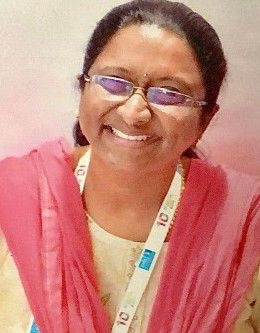
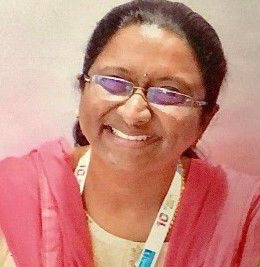
Fix images.

diff --git a/index.html b/index.html
@@ -623,7 +623,7 @@
             <div class="inner">
               <div class="thumbnail">
                 <a href="https://www.amrita.edu/faculty/bindu-k-r/">
-                  <img src="assets/images/members/2024-25/bindu_k_r.png" alt="Personal Portfolio Images" style="width: 100%; height: 256px; object-fit: cover;">
+                  <img src="assets/images/members/2024-25/bindu_k_r.png" alt="Personal Portfolio Images">
                 </a>
               </div>
               <div class="content">
@@ -678,7 +678,7 @@
             <div class="inner">
               <div class="thumbnail">
                 <a href="https://www.amrita.edu/faculty/anuragi-arti-narayandas/">
-                  <img src="assets/images/arti2.jpg" alt="Personal Portfolio Images">
+                  <img src="assets/images/arti.jpeg" alt="Personal Portfolio Images">
                 </a>
               </div>
               <div class="content">
